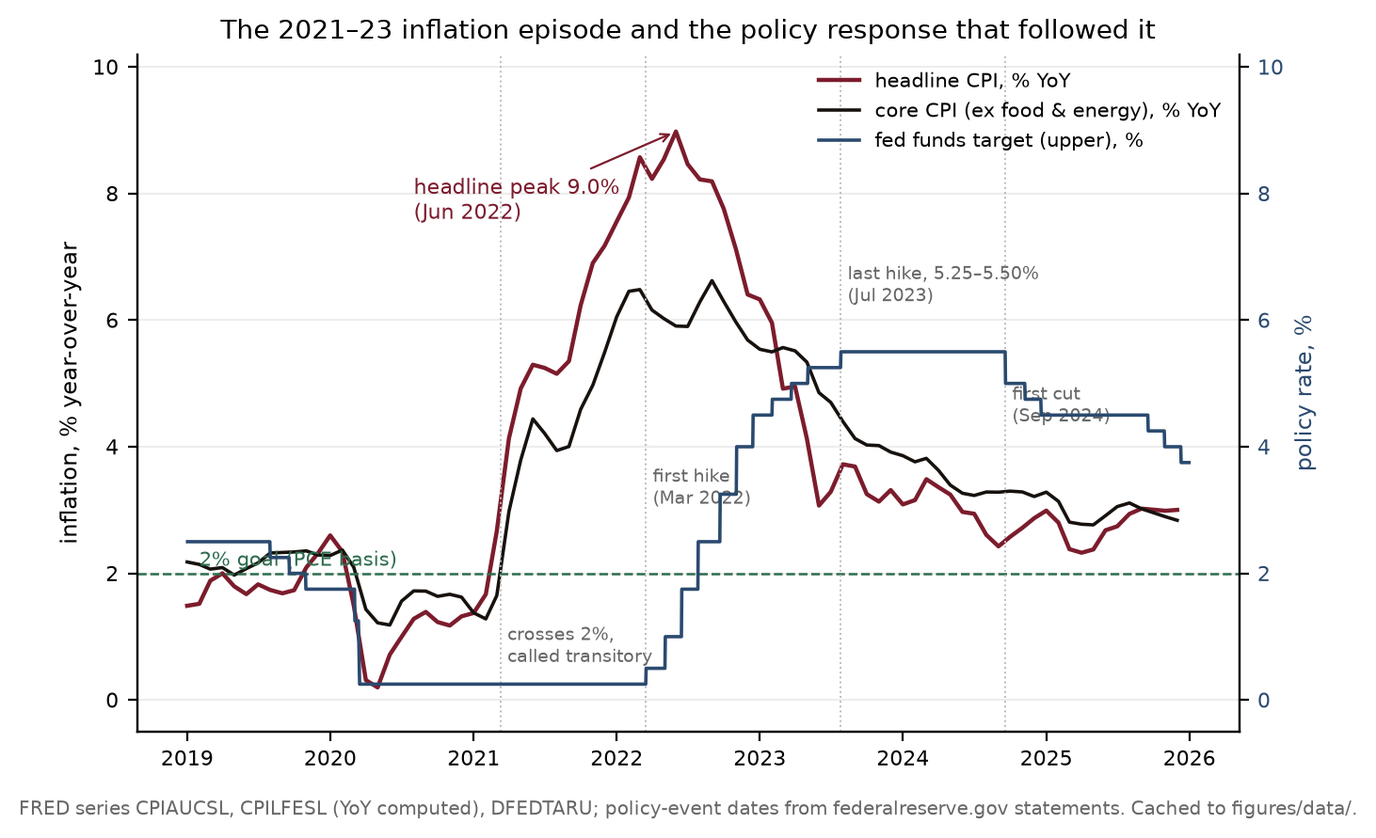
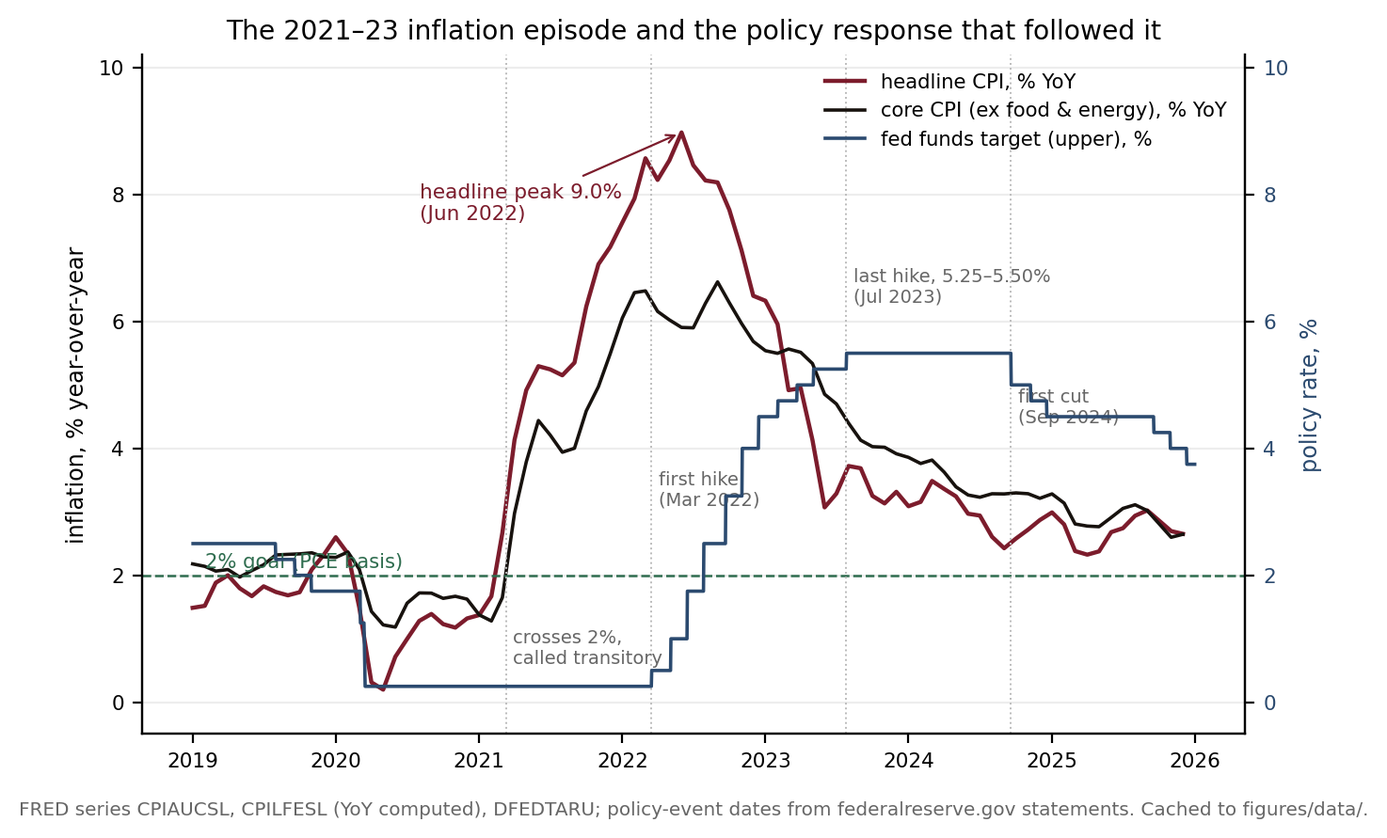
papers: correct methodology findings (K5-K9, K13, K14, ARL0)
K5  greeks: charm accel is ~2.2x same-option, not 4x (mixed moneyness).
K6  backtesting: the gross 0.41 Sharpe is not significant (t~1.6, p~0.11).
K7  overfitting: name the iid assumption in sigma_SR and cross-ref the §3.1
    autocorrelation correction (measured rho1 ~ -0.11).
K8  macro L2: NFCI>1 cell is ~90% pre-1990; March 2020 never enters it.
K9  macro L1: CPI YoY now calendar-based (was position-based over the Oct-2025
    gap -> 3.71% vs correct 3.35%); three figures regenerated.
K13 paper-to-strategy: add the Chen & Zimmermann (~100% replication) counter-
    position; show both priors (8% -> ~25%).
K14 how-markets-move: add PFOF/internalisation as the third possibility.
M04 algos L3: ARL0 ~4290, not ~3300 (Siegmund w/o continuity correction).

diff --git a/08-macro-context/figures/fig_e1_master_vars.py b/08-macro-context/figures/fig_e1_master_vars.py
@@ -52,6 +52,20 @@ def fred(series):
     return dates, np.array(vals)
 
 
+def yoy_calendar(dates, vals):
+    """Calendar-based YoY: compare each month with the SAME calendar month one
+    year earlier, not the 12th prior observation, so a gap in the series does
+    not shift the comparison base (ERRATA / audit K9)."""
+    lut = {(d.year, d.month): v for d, v in zip(dates, vals)}
+    out_d, out_v = [], []
+    for d, v in zip(dates, vals):
+        prev = lut.get((d.year - 1, d.month))
+        if prev is not None and prev != 0:
+            out_d.append(d)
+            out_v.append(100.0 * (v / prev - 1.0))
+    return np.array(out_v), out_d
+
+
 def rec_spans(rd, rv):
     """Turn the monthly USREC 0/1 series into a list of (start, end) spans."""
     spans, start = [], None
@@ -72,8 +86,7 @@ bs_d,  bs  = fred("WALCL")                # Fed total assets, weekly, $ millions
 rec_d, rec = fred("USREC")                # NBER recession indicator, monthly
 
 # CPI year-over-year % from the index (12-month change)
-cpi_yoy = 100.0 * (cpi[12:] / cpi[:-12] - 1.0)
-cpi_yoy_d = cpi_d[12:]
+cpi_yoy, cpi_yoy_d = yoy_calendar(cpi_d, cpi)
 
 START = dt.datetime(1970, 1, 1)
 spans = [s for s in rec_spans(rec_d, rec) if s[1] >= START]

diff --git a/08-macro-context/figures/fig_e1_inflation_episode.py b/08-macro-context/figures/fig_e1_inflation_episode.py
@@ -47,12 +47,27 @@ def fred(series):
     return dates, np.array(vals)
 
 
+def yoy_calendar(dates, vals):
+    """Calendar-based year-over-year: compare each month with the SAME calendar
+    month one year earlier, not with the 12th prior *observation*. A gap in the
+    series (e.g. the un-published Oct-2025 CPI) otherwise silently shifts the
+    comparison base and biases every later YoY (ERRATA / audit K9)."""
+    lut = {(d.year, d.month): v for d, v in zip(dates, vals)}
+    out_d, out_v = [], []
+    for d, v in zip(dates, vals):
+        prev = lut.get((d.year - 1, d.month))
+        if prev is not None and prev != 0:
+            out_d.append(d)
+            out_v.append(100.0 * (v / prev - 1.0))
+    return np.array(out_v), out_d
+
+
 h_d, h = fred("CPIAUCSL")
 c_d, c = fred("CPILFESL")
 t_d, t = fred("DFEDTARU")
 
-h_yoy, h_yd = 100.0 * (h[12:] / h[:-12] - 1.0), h_d[12:]
-c_yoy, c_yd = 100.0 * (c[12:] / c[:-12] - 1.0), c_d[12:]
+h_yoy, h_yd = yoy_calendar(h_d, h)
+c_yoy, c_yd = yoy_calendar(c_d, c)
 
 LO, HI = dt.datetime(2019, 1, 1), dt.datetime(2026, 1, 1)
 mh = [i for i, d in enumerate(h_yd) if LO <= d < HI]

diff --git a/08-macro-context/figures/fig_e1_cycle.py b/08-macro-context/figures/fig_e1_cycle.py
@@ -50,6 +50,20 @@ def fred(series):
     return dates, np.array(vals)
 
 
+def yoy_calendar(dates, vals):
+    """Calendar-based YoY: compare each month with the SAME calendar month one
+    year earlier, not the 12th prior observation, so a gap in the series does
+    not shift the comparison base (ERRATA / audit K9)."""
+    lut = {(d.year, d.month): v for d, v in zip(dates, vals)}
+    out_d, out_v = [], []
+    for d, v in zip(dates, vals):
+        prev = lut.get((d.year - 1, d.month))
+        if prev is not None and prev != 0:
+            out_d.append(d)
+            out_v.append(100.0 * (v / prev - 1.0))
+    return np.array(out_v), out_d
+
+
 def rec_spans(rd, rv):
     spans, start = [], None
     for d, v in zip(rd, rv):
@@ -66,8 +80,7 @@ ip_d, ip = fred("INDPRO")
 sl_d, sl = fred("T10Y3M")                 # daily, starts 1982-01
 rec_d, rec = fred("USREC")
 
-ip_yoy = 100.0 * (ip[12:] / ip[:-12] - 1.0)
-ip_yoy_d = ip_d[12:]
+ip_yoy, ip_yoy_d = yoy_calendar(ip_d, ip)
 
 START = dt.datetime(1982, 1, 1)           # limited by T10Y3M's start
 spans = [s for s in rec_spans(rec_d, rec) if s[1] >= START]

diff --git a/09-algo-development/L2-paper-to-strategy.md b/09-algo-development/L2-paper-to-strategy.md
@@ -146,7 +146,7 @@ Two riders keep this honest. First, decay is a *cross-sectional average*: some a
 
 Combine the three haircuts and a working prior falls out. Take a random published anomaly. With probability well above one-half it was fragile and will not cleanly replicate (Section 3.2). If it does replicate, expect roughly half of the in-sample return to be gone out-of-sample and post-publication (Section 3.3). Whatever remains must then survive *your* costs, *your* capacity, and *your* execution (Section 5), which for a high-turnover or microcap effect can be the largest haircut of all. The compounded expectation is sobering: the modal outcome of faithfully replicating a random anomaly paper is a small, fragile, or absent edge.
 
-To make the compounding explicit, put rough numbers on it — not as precise probabilities but as a discipline of multiplication. Suppose a randomly chosen published anomaly has a one-in-three chance of replicating cleanly under tightened methodology (the Hou-Xue-Zhang complement). Condition on replication, and expect roughly half the in-sample return to remain out-of-sample (McLean-Pontiff). Condition on *that*, and for a high-turnover or microcap effect, costs and capacity can remove half again. Multiply — (1/3) × (1/2) × (1/2) ≈ 8% — and the point is not the exact figure but the shape: the expected fraction of the headline that reaches your account is small, and it is small because three independent haircuts multiply rather than add. A durable, low-turnover, large-cap effect improves every term; a fashionable, high-turnover, small-cap one worsens every term. The prior is not "anomalies don't work"; it is "the specific anomaly in front of you is probably weaker than advertised, and you should design your replication to find out *where* it dies."
+To make the compounding explicit, put rough numbers on it — not as precise probabilities but as a discipline of multiplication. Suppose a randomly chosen published anomaly has a one-in-three chance of replicating cleanly under tightened methodology (the Hou-Xue-Zhang complement) — though this prior is contested: Chen and Zimmermann's *Open Source Cross-Sectional Asset Pricing* (Critical Finance Review 2022) hand-reproduces 319 predictors and finds a replication rate near 100% (158 of 161 clear t > 1.96), regressing reproduced on original t-statistics with a slope of 0.88, and argue the low Hou-Xue-Zhang rate is partly a *classification* choice (heavy microcap screening and value-weighting) rather than genuine non-replication. With their prior the first factor is closer to 1 than 1/3 and the ~8% below rises to ~25%. The replication *rate* is itself disputed, so carry both priors and read the multiplication as a discipline, not a point estimate. Condition on replication, and expect roughly half the in-sample return to remain out-of-sample (McLean-Pontiff). Condition on *that*, and for a high-turnover or microcap effect, costs and capacity can remove half again. Multiply — (1/3) × (1/2) × (1/2) ≈ 8% — and the point is not the exact figure but the shape: the expected fraction of the headline that reaches your account is small, and it is small because three independent haircuts multiply rather than add. A durable, low-turnover, large-cap effect improves every term; a fashionable, high-turnover, small-cap one worsens every term. The prior is not "anomalies don't work"; it is "the specific anomaly in front of you is probably weaker than advertised, and you should design your replication to find out *where* it dies."
 
 This is not an argument against reading the literature — it is an argument for reading it as a *source of hypotheses to be re-tested on your own out-of-sample data*, never as a source of results to be trusted. It also reframes what a solo researcher's edge actually is. You will not out-data or out-compute a quant fund. What you can do is choose durable, capacity-tolerant effects; hold yourself to an honest out-of-sample split the literature often skipped; and take costs seriously from the first line. The rest of this paper is that program, made concrete.
 
@@ -428,6 +428,7 @@ Every substantive claim in this paper rests on one of three kinds of basis, dist
 - Bailey, D. H., & López de Prado, M. (2014). The deflated Sharpe ratio: Correcting for selection bias, backtest overfitting, and non-normality. *Journal of Portfolio Management, 40*(5), 94–107. The formal guard used in Section 6 for judging an in-sample-selected best as an order statistic. Open access: <https://papers.ssrn.com/sol3/papers.cfm?abstract_id=2460551>.
 - Harvey, C. R., Liu, Y., & Zhu, H. (2016). …and the cross-section of expected returns. *Review of Financial Studies, 29*(1), 5–68. Argues that with hundreds of factors tested on one dataset the field is one giant multiple-comparison problem, so a new factor should clear roughly *t* > 3. Open access: <https://papers.ssrn.com/sol3/papers.cfm?abstract_id=2249314>.
 - Hou, K., Xue, C., & Zhang, L. (2020). Replicating anomalies. *Review of Financial Studies, 33*(5), 2019–2133. Re-tests 452 anomalies under uniform value-weighted methodology; roughly 65% fail to replicate, mostly because they were microcap-driven. Open access (NBER w23394): <https://www.nber.org/papers/w23394>.
+- Chen, A. Y., & Zimmermann, T. (2022). Open source cross-sectional asset pricing. *Critical Finance Review, 11*(2), 207–264. Hand-reproduces 319 published predictors and reports a replication rate near 100%, disputing the Hou-Xue-Zhang classification of anomalies as failures — the published counter-position to the replication-crisis prior (Section 3.4).
 - Jegadeesh, N., & Titman, S. (1993). Returns to buying winners and selling losers: Implications for stock market efficiency. *Journal of Finance, 48*(1), 65–91. The foundational cross-sectional momentum paper; a durable survivor of the anomaly zoo. Peer-reviewed journal article.
 - McLean, R. D., & Pontiff, J. (2016). Does academic research destroy stock return predictability? *Journal of Finance, 71*(1), 5–32. Documents ~58% out-of-sample post-publication decay across 97 predictors; the empirical anchor of Section 3.3. Open access: <https://papers.ssrn.com/sol3/papers.cfm?abstract_id=2156623>.
 - Moskowitz, T. J., Ooi, Y. H., & Pedersen, L. H. (2012). Time series momentum. *Journal of Financial Economics, 104*(2), 228–250. The diversified, vol-scaled TSMOM paper replicated (in its plain single-asset form) in Section 5. Open access: <https://www.aqr.com/Insights/Research/Journal-Article/Time-Series-Momentum>.

diff --git a/03-options/L2-greeks-and-hedging.md b/03-options/L2-greeks-and-hedging.md
@@ -291,7 +291,7 @@ charm = ∂²V/(∂S ∂t) = ∂Δ/∂t = ∂Θ/∂S.
 
 This is the effect previewed in Section 3.2: an out-of-the-money option's delta bleeds toward zero as expiry approaches (it is running out of time to reach the strike), while an in-the-money option's delta drifts toward one (its fate is increasingly settled). Charm is the *rate* of that drift, and like vanna it changes sign across the strike. The right panel of Figure 4 shows it: for a call, charm is negative below the strike (delta drifting down) and positive above it (delta drifting up). At 30 days the model prints −0.0047 per day at S/K = 0.95 and +0.0033 at S/K = 1.05.
 
-The number that matters most is how charm *grows into expiry*. At seven days, the same out-of-the-money and in-the-money calls show charm of −0.0182 and +0.0155 per day — roughly four times the 30-day magnitude. Delta decay accelerates violently in the last days of an option's life. This is what makes charm the most *predictable* flow greek: unlike gamma, it needs no price move at all — the drift happens automatically as the clock ticks, so tomorrow's charm-driven re-hedge can be computed today. And it is largest exactly when the most contracts sit near the money in the final sessions before a monthly or weekly expiry, which is why a dealer's charm hedging concentrates into the end of the day and the end of the expiry cycle.
+The number that matters most is how charm *grows into expiry*. At seven days, the **same** out-of-the-money and in-the-money calls (S/K = 0.95 and 1.05) show charm of about **−0.0105 and +0.0097** per day — roughly **2.2× (OTM) to 2.9× (ITM)** the 30-day magnitude. Delta decay accelerates sharply in the last days of an option's life, though by about a factor of two-to-three, not four: an earlier revision's fourfold figure inadvertently compared *different* strikes across the two maturities (the −0.0182 it quoted is the 7-day charm at S/K = 0.97, not 0.95), and the sister script `fig_so_vanna_charm.py` prints the same-option factor as 2.2×. This is what makes charm the most *predictable* flow greek: unlike gamma, it needs no price move at all — the drift happens automatically as the clock ticks, so tomorrow's charm-driven re-hedge can be computed today. And it is largest exactly when the most contracts sit near the money in the final sessions before a monthly or weekly expiry, which is why a dealer's charm hedging concentrates into the end of the day and the end of the expiry cycle.
 
 ### 8.3 Volga: vega's sensitivity to volatility
 
@@ -301,7 +301,7 @@ volga = ∂²V/∂σ² = ∂(Vega)/∂σ.
 
 It says how much your vega changes when implied vol changes — the vega of your vega. Its sign lives entirely in the product d₁·d₂: it is near zero at the money (where vega is at its peak and locally flat in vol) and positive in both wings (where d₁ and d₂ share a sign), so a book that is *long* wing options is long volga and a book that is *short* the wings is short volga (Natenberg 1994). The practical consequence is a nasty asymmetry: a naked short-wing position is negatively convex in vol, so a volatility spike hits it twice — the vega loss itself, plus vega growing against the position as vol rises — which is the mechanism behind many short-premium blow-ups. Volga is the greek that responds to *vol-of-vol*, and it is the direct link between the greeks of this paper and the curvature of the smile in the volatility-surface paper: a market that expects volatility itself to be jumpy bids up the wings and steepens the smile. It is second-order and slower-moving than vanna and charm, so it is the junior member of the trio for flow purposes, but it is what turns a large implied-vol move from a linear vega event into a nonlinear one.
 
-![Sign maps of the two delta-drift greeks for a European call under Black–Scholes–Merton (K=100, sigma=20%, r=4%, q=0): vanna (delta change per +1 vol point) and charm (delta change per calendar day) across moneyness and days to expiry. The solid line is the zero contour; red is positive, blue negative. Both flip sign across the strike and grow sharply into expiry — at 7 days the out-of-the-money charm reaches about −0.018 per day, four times its 30-day value. Reproduce with `figures/fig_second_order.py`.](figures/fig_second_order.png)
+![Sign maps of the two delta-drift greeks for a European call under Black–Scholes–Merton (K=100, sigma=20%, r=4%, q=0): vanna (delta change per +1 vol point) and charm (delta change per calendar day) across moneyness and days to expiry. The solid line is the zero contour; red is positive, blue negative. Both flip sign across the strike and grow sharply into expiry — for a fixed strike the 7-day charm is roughly two to three times its 30-day value (an earlier caption's ~4× compared different moneyness across the two maturities). Reproduce with `figures/fig_second_order.py`.](figures/fig_second_order.png)
 
 ### 8.4 Why a hedger reads the trio as tomorrow's forced trades
 

diff --git a/09-algo-development/L3-building-running-killing-algos.md b/09-algo-development/L3-building-running-killing-algos.md
@@ -264,9 +264,9 @@ The numbers are sobering in the right way. For this ordinary +0.20R edge, the me
 
 Drawdown bands answer "is this drawdown normal?" They do not answer the subtler question: *has the edge quietly decayed even though the equity curve has not yet cratered?* For that you need a monitor that watches the expectancy itself and raises an alarm — on a threshold set in advance — when the mean result drifts down. Figure 3 builds one on a simulated strategy whose edge is engineered to die.
 
-The strategy has a symmetric ±1R payoff, so its edge lives entirely in the hit rate. For the first seven hundred trades the hit rate is 60% (expectancy +0.20R); then, over a hundred trades, it decays to 40%, flipping the edge to an equal-and-opposite −0.20R bleed. Two monitors run on the live R-stream, both fixed before the run: a hundred-trade rolling expectancy, and a one-sided lower CUSUM (cumulative-sum) on the standardized result. The CUSUM's reference is k = 0.20σ (half the 0.41σ shift to be detected) and its alarm threshold is h = 14σ, chosen for an in-control average run length (ARL₀) of about 3,300 trades — both set in advance, not tuned to the outcome.
+The strategy has a symmetric ±1R payoff, so its edge lives entirely in the hit rate. For the first seven hundred trades the hit rate is 60% (expectancy +0.20R); then, over a hundred trades, it decays to 40%, flipping the edge to an equal-and-opposite −0.20R bleed. Two monitors run on the live R-stream, both fixed before the run: a hundred-trade rolling expectancy, and a one-sided lower CUSUM (cumulative-sum) on the standardized result. The CUSUM's reference is k = 0.20σ (half the 0.41σ shift to be detected) and its alarm threshold is h = 14σ, chosen for an in-control average run length (ARL₀) of about **4,300 trades** — both set in advance, not tuned to the outcome. (An earlier revision quoted ARL₀ ≈ 3,300, which is the Siegmund large-deviation approximation *without* the continuity correction; the exact in-control ARL₀ for this discrete CUSUM — from a collocation solution and confirmed by Monte Carlo at ≈ 4,290 — is the right figure. The other monitoring metrics, median and p90 detection lag and the detection and false-alarm rates, are unaffected.)
 
-![A health monitor on a simulated decaying edge. The strategy's hit rate falls from 60% to 40% starting at trade 700 (a symmetric ±1R payoff, so expectancy drops from +0.20R to −0.20R). Top: the 100-trade rolling expectancy (noisy, slow) against the hidden true expectancy. Bottom: a one-sided lower CUSUM on the standardized result crosses its pre-set threshold and fires. Reference k = 0.20σ and threshold h = 14σ (in-control ARL₀ ≈ 3,300 trades) are fixed in advance. On the illustrated path (seed 42) the alarm comes 138 trades after the changepoint. Reproduce with figures/fig_monitoring.py.](figures/fig_monitoring.png)
+![A health monitor on a simulated decaying edge. The strategy's hit rate falls from 60% to 40% starting at trade 700 (a symmetric ±1R payoff, so expectancy drops from +0.20R to −0.20R). Top: the 100-trade rolling expectancy (noisy, slow) against the hidden true expectancy. Bottom: a one-sided lower CUSUM on the standardized result crosses its pre-set threshold and fires. Reference k = 0.20σ and threshold h = 14σ (in-control ARL₀ ≈ 4,300 trades) are fixed in advance. On the illustrated path (seed 42) the alarm comes 138 trades after the changepoint. Reproduce with figures/fig_monitoring.py.](figures/fig_monitoring.png)
 
 The result quantifies both the power and the limit of monitoring. On the illustrated path (seed 42) the CUSUM fires 138 trades after the edge began to decay; across five thousand independent paths the **median detection lag is 108 trades** (90th percentile 158), with the alarm firing correctly after the changepoint on about 85% of paths and raising a false alarm before it on about 15%. Two lessons follow. First, a well-designed monitor *does* catch a dying edge that the equity curve and the naked eye would miss for far longer — the rolling expectancy in the top panel is still a noisy blur when the CUSUM has already fired. Second, and more humbling, even a good monitor needs *roughly a hundred trades of a dead edge* before it is confident, because a per-trade edge is small next to per-trade noise. That lag is not a defect to be optimized away; it is the irreducible cost of distinguishing signal from noise, and it is the reason retirement criteria must be *pre-committed* (Section 7) rather than invented in the moment. You cannot make the monitor much faster without drowning in false alarms; what you can do is decide, before the money is on the line, what you will do when it fires.
 

diff --git a/05-quant/L2-backtesting-methodology.md b/05-quant/L2-backtesting-methodology.md
@@ -234,7 +234,7 @@ Three components make up trading cost: the *bid-ask spread* (you cross roughly h
 
 The move that separates honest research from wishful thinking is the *cost-sensitivity curve*: recompute the headline metric across a grid of cost assumptions. An edge that is alive at 0 bps and dead at 2 bps is not an edge; it is a spread you were quietly paying yourself on paper. And *turnover is the multiplier* — total cost drag ≈ turnover × per-trade cost — so a signal that flips often can show a large gross edge and no net edge, while a slow signal barely notices costs. Report turnover next to every return.
 
-Figure 2 shows this on free data with one pre-committed, transparent rule: a 1-day reversal on the S&P 500 — hold long after a down day, short after an up day — on daily closes from Yahoo Finance, 2011–2026. Gross, it looks like a real strategy, at an annualized Sharpe of 0.41. But it flips about 130 round trips a year, so cost bites fast: net Sharpe falls to 0.26 at a 1 bp one-way cost, to 0.11 at 2 bps, and reaches zero at a break-even of ≈ 2.7 bps one-way (≈ 5.4 bps round trip) — well inside the real cost of trading the index for most participants. To a first approximation, the "edge" *was* the spread. Nothing about the rule was tuned; it is a textbook signal reported as-is, precisely because the subject here is the cost curve, not the strategy.
+Figure 2 shows this on free data with one pre-committed, transparent rule: a 1-day reversal on the S&P 500 — hold long after a down day, short after an up day — on daily closes from Yahoo Finance, 2011–2026. Gross, it looks like a real strategy, at an annualized Sharpe of 0.41 — though that gross figure is not itself statistically distinguishable from zero: with σ_SR = √(252/T) ≈ 0.26 on T = 3,769 days the t-statistic is only about 1.6 (two-sided p ≈ 0.11) and a 95% interval of roughly [−0.09, 0.92] straddles zero. But it flips about 130 round trips a year, so cost bites fast: net Sharpe falls to 0.26 at a 1 bp one-way cost, to 0.11 at 2 bps, and reaches zero at a break-even of ≈ 2.7 bps one-way (≈ 5.4 bps round trip) — well inside the real cost of trading the index for most participants. To a first approximation, the "edge" *was* the spread. Nothing about the rule was tuned; it is a textbook signal reported as-is, precisely because the subject here is the cost curve, not the strategy.
 
 ![Annualized Sharpe ratio of a fixed 1-day reversal on the S&P 500 (Yahoo daily ^GSPC, 2011–2026, 3,771 sessions) as a function of the assumed one-way transaction cost. Gross Sharpe is 0.41; at roughly 130 round trips per year the edge halves by 1 bp and reaches zero at a break-even near 2.7 bps one-way. The rule is fixed in advance and reported as-is. Reproduce with `figures/fig_cost_sensitivity.py`.](figures/fig_cost_sensitivity.png)
 
@@ -248,7 +248,7 @@ Every substantive claim in this paper rests on one of three kinds of basis, dist
 |---|---|
 | The best of N zero-edge backtests is inflated by selection: the best of 1,000 shows an apparent Sharpe ≈1.45 on a five-year daily sample | Own reproducible computation — `figures/fig_multiple_testing.py` |
 | The expected maximum in-sample Sharpe under the null grows like σ_SR·√(2 ln N) | Literature — (Bailey et al. 2014) |
-| A textbook 1-day reversal on the S&P 500 is gross-positive (Sharpe 0.41) but dies at a break-even near 2.7 bps one-way cost | Own reproducible computation — `figures/fig_cost_sensitivity.py` |
+| A textbook 1-day reversal on the S&P 500 is gross-positive (Sharpe 0.41, though not significant: t ≈ 1.6, p ≈ 0.11) and dies at a break-even near 2.7 bps one-way cost | Own reproducible computation — `figures/fig_cost_sensitivity.py` |
 | Adaptive post-hoc choices overfit noise even without running many explicit backtests (garden of forking paths) | Literature — (Gelman & Loken 2013) |
 | Pre-registration is the cheapest insurance against tuning the question until the data agrees | Literature — (Aronson 2006; López de Prado 2018) |
 | A directional decision rule must clear magnitude, significance, and sign together (log-HAR vs random walk, QLIKE/Clark–West) | Literature — (Patton 2011; Clark & West 2007) |

diff --git a/08-macro-context/L2-macro-regimes-fundamentals.md b/08-macro-context/L2-macro-regimes-fundamentals.md
@@ -196,7 +196,7 @@ The seductive next step is: "loose conditions are good for stocks, tight conditi
 
 The means with confidence intervals for the loose/tight split (`fig_e2_nfci.py`): **loose (NFCI < 0): +0.806% ± 0.175 over 21 trading days (n = 2,050 weeks); tight (NFCI ≥ 0): +0.649% ± 0.368 (n = 851).** Loose does beat tight — but by only **+0.157 pp per month**, and the intervals overlap heavily. The correlation between the NFCI *level* and the forward 21-day return is **−0.055** — statistically distinguishable from zero on 2,901 observations, but economically a rounding error. And the overlapping-window problem inflates even that thin significance: adjacent weekly windows share most of their 21-day horizon, so the effective sample is far smaller than 2,901. When we recompute on a *non-overlapping* subsample (every fifth week), the ordering nearly reverses: loose +0.710% ± 0.402 (n = 410) versus tight **+0.749% ± 0.852** (n = 171). On independent windows, tight-conditions months were followed by *slightly higher* average returns than loose-conditions months — the opposite of the story, well inside the noise.
 
-This is the counterexample, and it is decisive: **"tight financial conditions lead to lower equity returns" did not hold on independent monthly windows over 1971–2026.** The mechanism is not mysterious. The NFCI is *coincident* with stress, not leading it — conditions are tightest *at* the bottom, right before the strong recovery returns, so "buy when tight" often beats "buy when loose." The single feature that *does* survive is the crisis extreme: when the NFCI is above **1** (a genuine funding crisis — 2008, March 2020), the forward 21-day return averages only **+0.093% ± 0.631** (n = 378), materially below both the loose and the tight means. Extreme tightness is informative — not because it predicts weakness, but because it flags the states in which the return *distribution* has a fat left tail. The NFCI's job, then, is the one Section 4.1 gave it: a superb *state descriptor* and *risk gauge*, and a poor *monthly return timer*. Using it as the former is macro done well; using it as the latter is the mistake this section exists to prevent.
+This is the counterexample, and it is decisive: **"tight financial conditions lead to lower equity returns" did not hold on independent monthly windows over 1971–2026.** The mechanism is not mysterious. The NFCI is *coincident* with stress, not leading it — conditions are tightest *at* the bottom, right before the strong recovery returns, so "buy when tight" often beats "buy when loose." The single feature that *does* survive is the crisis extreme, though it must be read with care: when the NFCI is above **1**, the forward 21-day return averages only **+0.093% ± 0.631** (n = 378), materially below both means. Because the NFCI is standardized over its whole 1971–2026 history, the high-rate 1970s–80s dominate the scale, so about **90% of those 378 weeks (341) fall before 1990** — where the mean forward return was in fact **+0.334%** — while the **2008–09** weeks (37) averaged **−2.129%**, and **March 2020**, a liquidity shock rather than a 1970s-style funding-rate spike, peaked at only NFCI ≈ **0.27** and never entered the cell. The weak overall +0.093% is thus a blend of two opposite epochs, not a clean modern-crisis signal; on the post-1990 subsample the extreme *does* foreshadow weakness (≈ −2%). Extreme tightness is informative — as a flag for states whose return *distribution* has a fat left tail — but the standardization epoch has to be named for the number to mean what it seems to. The NFCI's job, then, is the one Section 4.1 gave it: a superb *state descriptor* and *risk gauge*, and a poor *monthly return timer*. Using it as the former is macro done well; using it as the latter is the mistake this section exists to prevent.
 
 ## 5 The fundamentals bridge
 

diff --git a/07-market-mechanics/L1-how-markets-move.md b/07-market-mechanics/L1-how-markets-move.md
@@ -96,7 +96,7 @@ A *limit order* is an order to buy or sell *at a specified price or better, but 
 
 A *market order* is an order to buy or sell *right now, at whatever price is available*. "Buy 100 shares, immediately, I don't care about the exact price." A market order demands an instant trade, so it reaches across the spread and *takes* whatever resting limit orders are there to meet it. In doing so it *takes liquidity*: it consumes offers that other people had posted. The person who sends a market order is impatient. They are saying: *I will pay for immediacy; get me in (or out) now.*
 
-> **The two verbs.** A *limit order provides* liquidity and waits; a *market order takes* liquidity and pays for the privilege of not waiting. Every trade in *continuous* trading is one impatient order (the *taker*) meeting one or more patient resting orders (the *makers*). In continuous trading there is no third possibility — the one exception is a batch auction, where many orders cross at once at a single price and neither side takes the other, which is exactly the opening- and closing-auction mechanism of Section 6.1. When you internalise this, "who is buying?" splits into two much sharper questions: who is providing, and who is taking?
+> **The two verbs.** A *limit order provides* liquidity and waits; a *market order takes* liquidity and pays for the privilege of not waiting. Every trade in *continuous* trading is one impatient order (the *taker*) meeting one or more patient resting orders (the *makers*). In continuous trading there is no third possibility — with two exceptions worth naming. The first is a batch auction, where many orders cross at once at a single price and neither side takes the other, which is exactly the opening- and closing-auction mechanism of Section 6.1. The second, larger for US *equities* specifically, is *internalisation*: most retail marketable orders never reach a public order book at all — they are routed via payment for order flow (PFOF) to wholesalers who fill them from their own inventory at or just inside the national best bid/offer (a small "price improvement"), rather than as a taker crossing a resting maker. For index futures and options the maker/taker picture holds cleanly; for a retail stock order the counterparty is often a wholesaler you never see, and "who is providing, who is taking" is answered off-book. (This also dates the one-cent tick used later: the 2024 Reg NMS amendments phase in sub-penny, half-cent ticks for tight-spread stocks from late 2025.) When you internalise this, "who is buying?" splits into two much sharper questions: who is providing, and who is taking?
 
 The professional who systematically posts limit orders on both sides, hoping to earn the spread, is a *liquidity provider* or *market maker* (Section 5). The trader who fires a market order to get filled now is a *liquidity taker*. Most price *movement*, as Section 4 will show, is the story of takers consuming what makers have posted — or of makers pulling their posts before anyone can take them.
 

diff --git a/05-quant/L3-overfitting-calibration.md b/05-quant/L3-overfitting-calibration.md
@@ -69,7 +69,7 @@ Write the per-period Sharpe ratio of a return series as SR = μ/σ, the ratio of
 
   σ_SR ≈ √(252 / T).
 
-This one formula carries the whole section. On a five-year sample (*T* = 1260) it gives σ_SR ≈ 0.45; on a one-year sample (*T* = 252) it gives σ_SR ≈ 1.0. A single zero-edge strategy on one year of data therefore has an annualized Sharpe that is a standard normal variable — routinely ±1, occasionally ±2, entirely by chance. Nothing is wrong with that strategy; it simply has no edge and a short measurement window.
+This one formula carries the whole section — with one assumption named now and discharged in Section 3.1: it treats returns as serially *independent*. When they are autocorrelated (leveraged, trend-following, or overlapping-holding-period strategies) the effective sample is smaller and this formula runs *optimistic*; Section 3.1 gives the Lo (2002) correction and insists it not be skipped silently. On the S&P daily reversal of the backtesting paper the measured first-order autocorrelation is about −0.11, small enough that the iid formula is a fair approximation *here*, but the caveat is general. On a five-year sample (*T* = 1260) it gives σ_SR ≈ 0.45; on a one-year sample (*T* = 252) it gives σ_SR ≈ 1.0. A single zero-edge strategy on one year of data therefore has an annualized Sharpe that is a standard normal variable — routinely ±1, occasionally ±2, entirely by chance. Nothing is wrong with that strategy; it simply has no edge and a short measurement window.
 
 ### 2.2 The best of *N* is an order statistic
 
